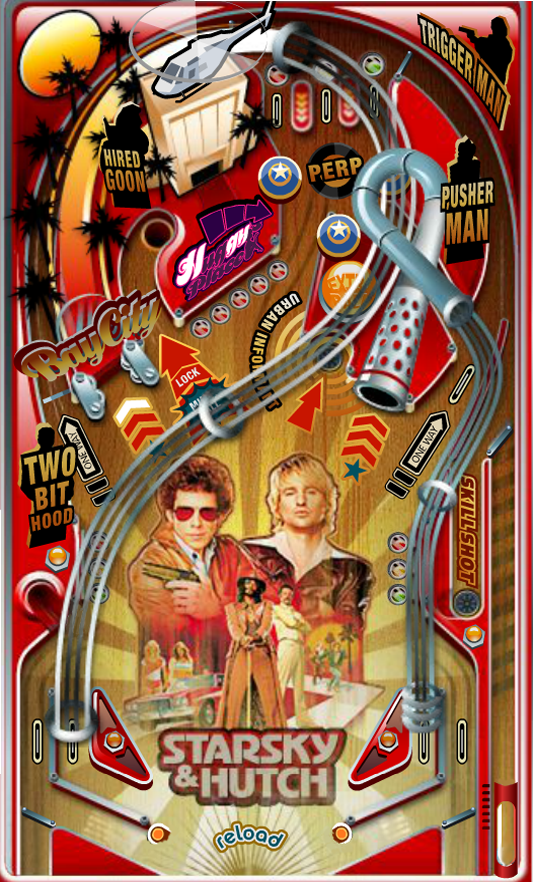
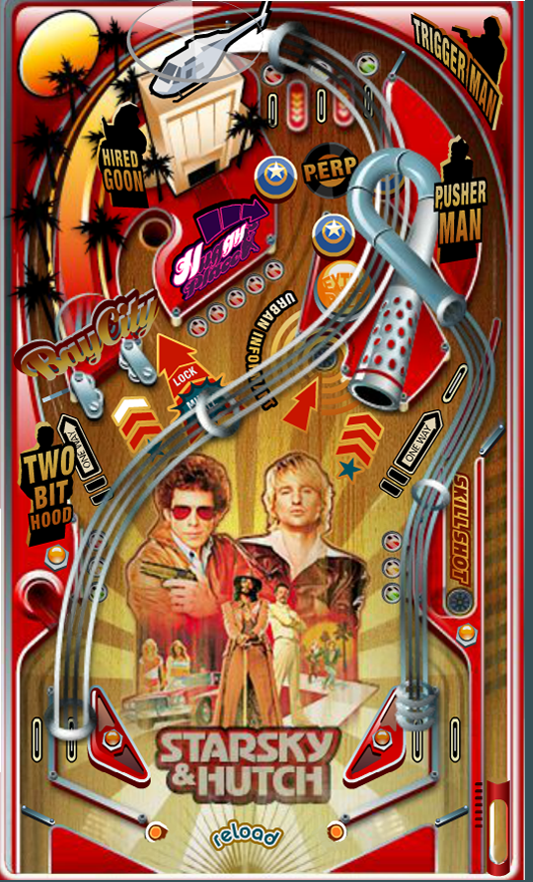
new sprite for the invisible path

diff --git a/Physics2_class4 - handout/ModuleSceneIntro.cpp b/Physics2_class4 - handout/ModuleSceneIntro.cpp
@@ -31,6 +31,7 @@ bool ModuleSceneIntro::Start()
 	bonus_fx = App->audio->LoadFx("pinball/bonus.wav");
 	hit_fx = App->audio->LoadFx("pinball/hit.ogg");
 	background = App->textures->Load("pinball/Pinball_Sritesheet.png");
+	tunel = App->textures->Load("pinball/Pinball_Tunel.png");
 	BrightRound = App->textures->Load("pinball/Round_coll.png");
 
 	sensor = App->physics->CreateRectangleSensor(SCREEN_WIDTH / 2, SCREEN_HEIGHT, SCREEN_WIDTH, 50);
@@ -49,7 +50,14 @@ bool ModuleSceneIntro::CleanUp()
 // Update: draw background
 update_status ModuleSceneIntro::Update()
 {
-	App->renderer->Blit(background, 0, 0, NULL);
+	
+	 App->renderer->Blit(background, 0, 0, NULL);
+
+	if (tunel_visible == true)
+	{
+		App->renderer->Blit(tunel, 0, 0, NULL);
+	}
+
 
 	if(App->input->GetKey(SDL_SCANCODE_SPACE) == KEY_DOWN)
 	{
@@ -67,6 +75,13 @@ update_status ModuleSceneIntro::Update()
 	if(App->input->GetKey(SDL_SCANCODE_2) == KEY_DOWN)
 	{
 		boxes.add(App->physics->CreateRectangle(App->input->GetMouseX(), App->input->GetMouseY(), 100, 50, b2_dynamicBody));
+	}
+
+	if (App->input->GetKey(SDL_SCANCODE_F2) == KEY_DOWN)
+	{
+		
+	 	if (tunel_visible == false){tunel_visible = true;}
+		else if (tunel_visible == true) { tunel_visible = false; }
 	}
 
 	if(App->input->GetKey(SDL_SCANCODE_3) == KEY_DOWN)

diff --git a/Physics2_class4 - handout/ModuleSceneIntro.h b/Physics2_class4 - handout/ModuleSceneIntro.h
@@ -31,9 +31,12 @@ public:
 	SDL_Texture* box;
 	SDL_Texture* rick;
 	SDL_Texture* background;
+	SDL_Texture* tunel;
 	SDL_Texture* BrightRound;
 	uint bonus_fx;
 	uint hit_fx;
 	p2Point<int> ray;
 	bool ray_on;
+
+	bool tunel_visible = false;
 };
